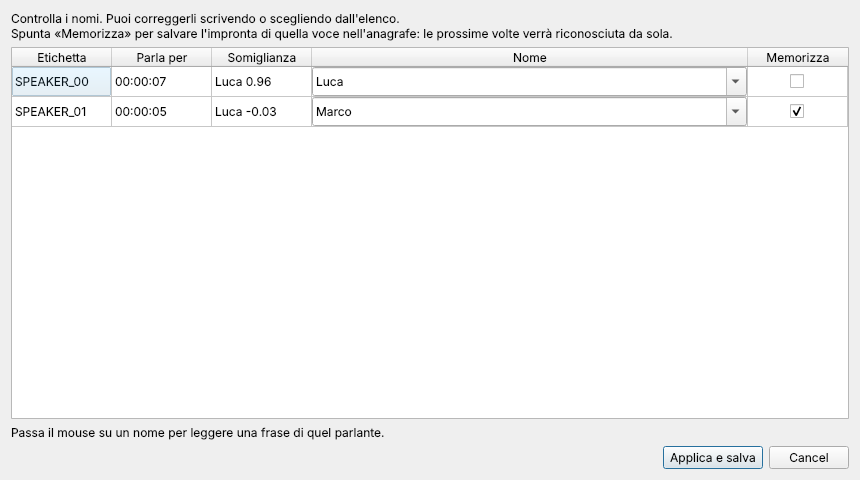
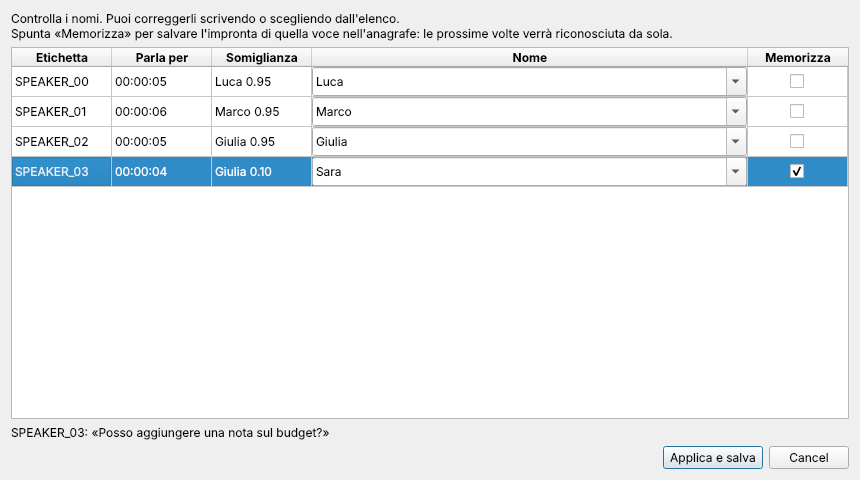
Screenshot dimostrativi puliti e galleria nel README
Claude-Session: https://claude.ai/code/session_01SbYgxRpbbLANSghX6F8Ux5

diff --git a/README.md b/README.md
@@ -54,6 +54,10 @@ Gli installer non sono firmati digitalmente: per questo Windows e macOS mostrano
 2. *Coda trascrizioni*: trascina i file, imposta i partecipanti, **Avvia coda**.
 3. A fine lavoro: **Apri trascrizione** oppure **Rivedi parlanti…** per correggere i nomi e spuntare **Memorizza**.
 
+| Anagrafe voci | Revisione parlanti | Impostazioni |
+| --- | --- | --- |
+| ![Anagrafe voci](docs/screenshot-voci.png) | ![Revisione parlanti](docs/screenshot-revisione.png) | ![Impostazioni](docs/screenshot-impostazioni.png) |
+
 ## Privacy e dati
 
 - Elaborazione solo locale; la telemetria anonima di pyannote è disattivata dall'app.
